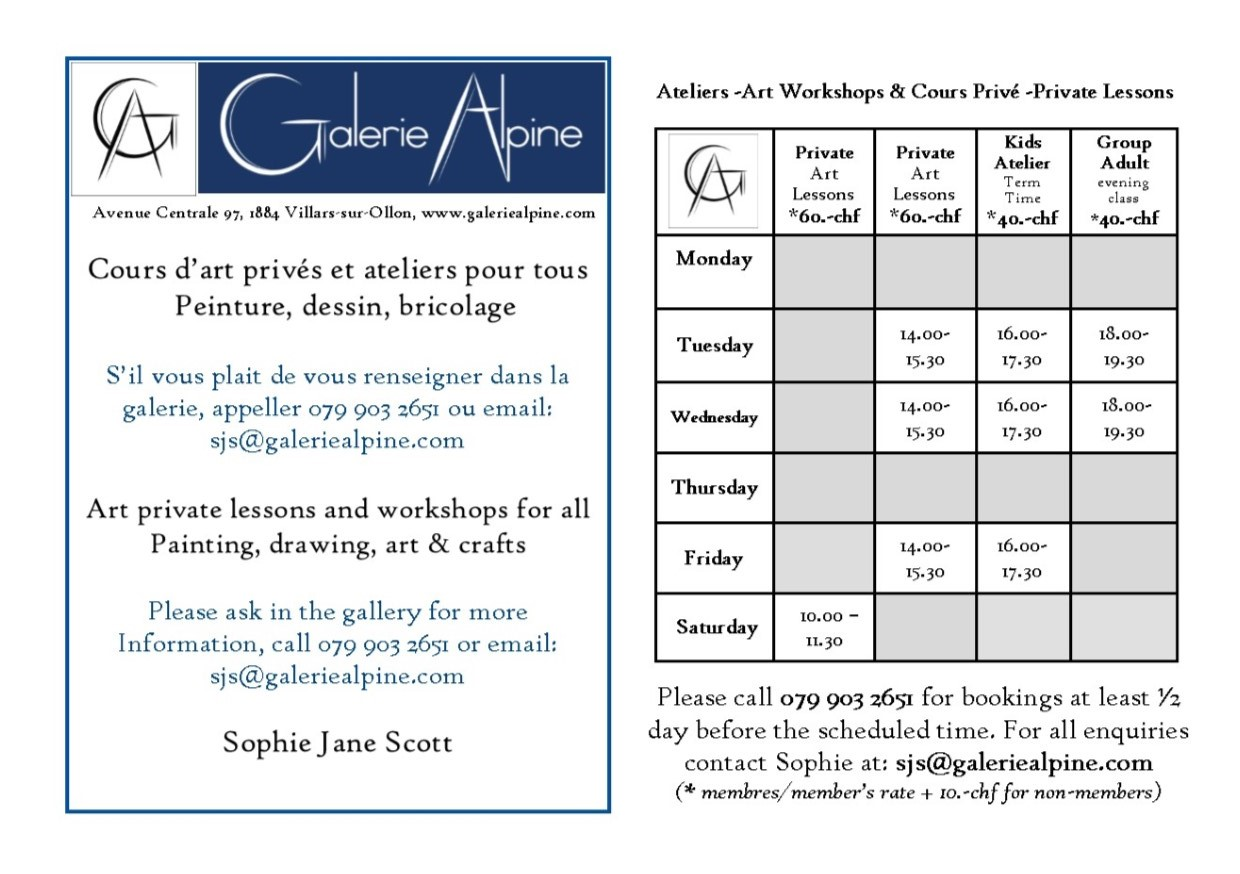
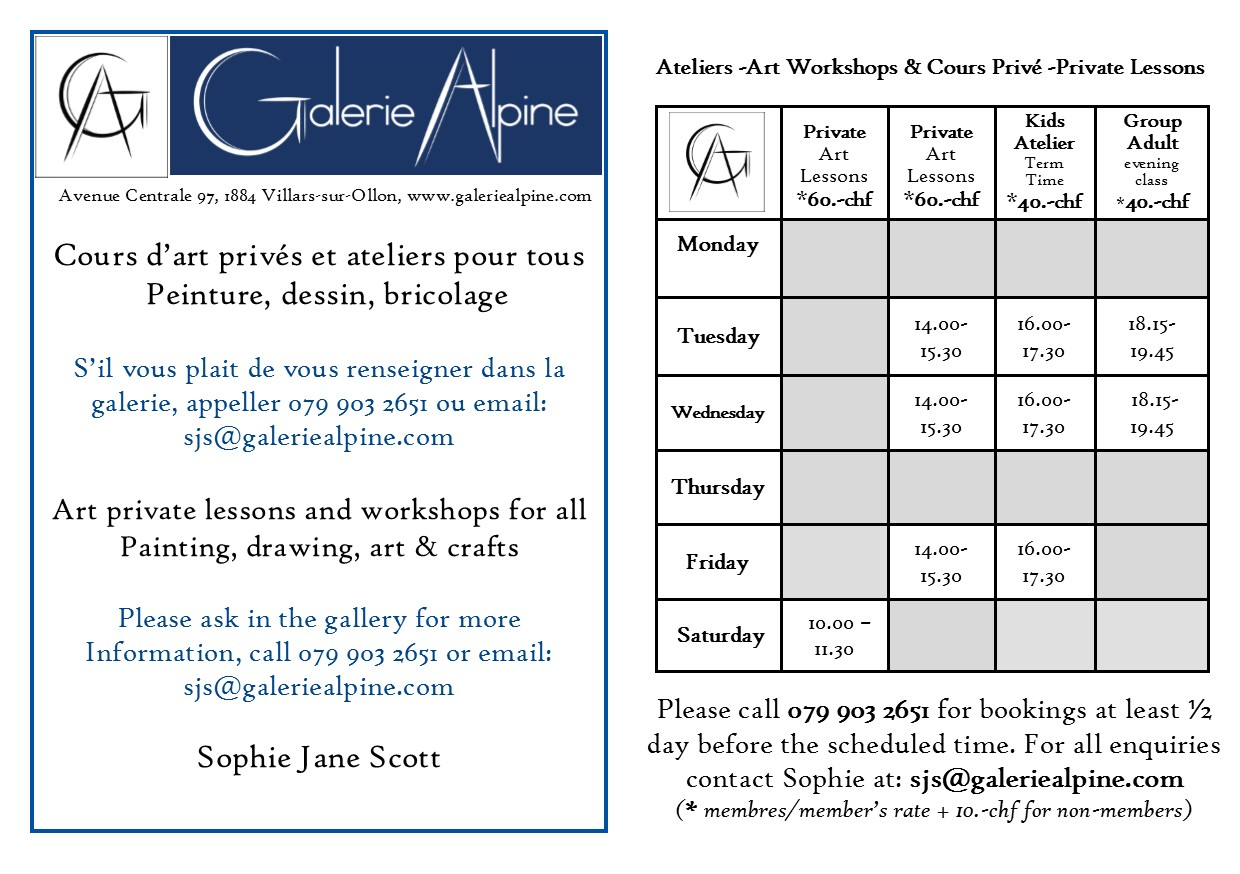
more atelier form updates

Changed region(s): [[0.0, 0.0309, 0.9806, 0.9577], [0.1532, 0.8341, 0.3677, 0.8959]]

diff --git a/atelier/art-classes/index.html b/atelier/art-classes/index.html
@@ -33,8 +33,8 @@ images:
 
 <div class="row">
 	<div class="four columns">
-		<a href="/img/atelier/art-classes/a5_poster_for_art_classes_2018.jpg">
-			<img class="u-max-full-width" src="/img/atelier/art-classes/a5_poster_for_art_classes_2018.jpg" />
+		<a href="/img/atelier/art-classes/a5_poster_for_art_classes_2019.jpg">
+			<img class="u-max-full-width" src="/img/atelier/art-classes/a5_poster_for_art_classes_2019.jpg" />
 		</a>
 	</div>
 	<div class="four columns">
